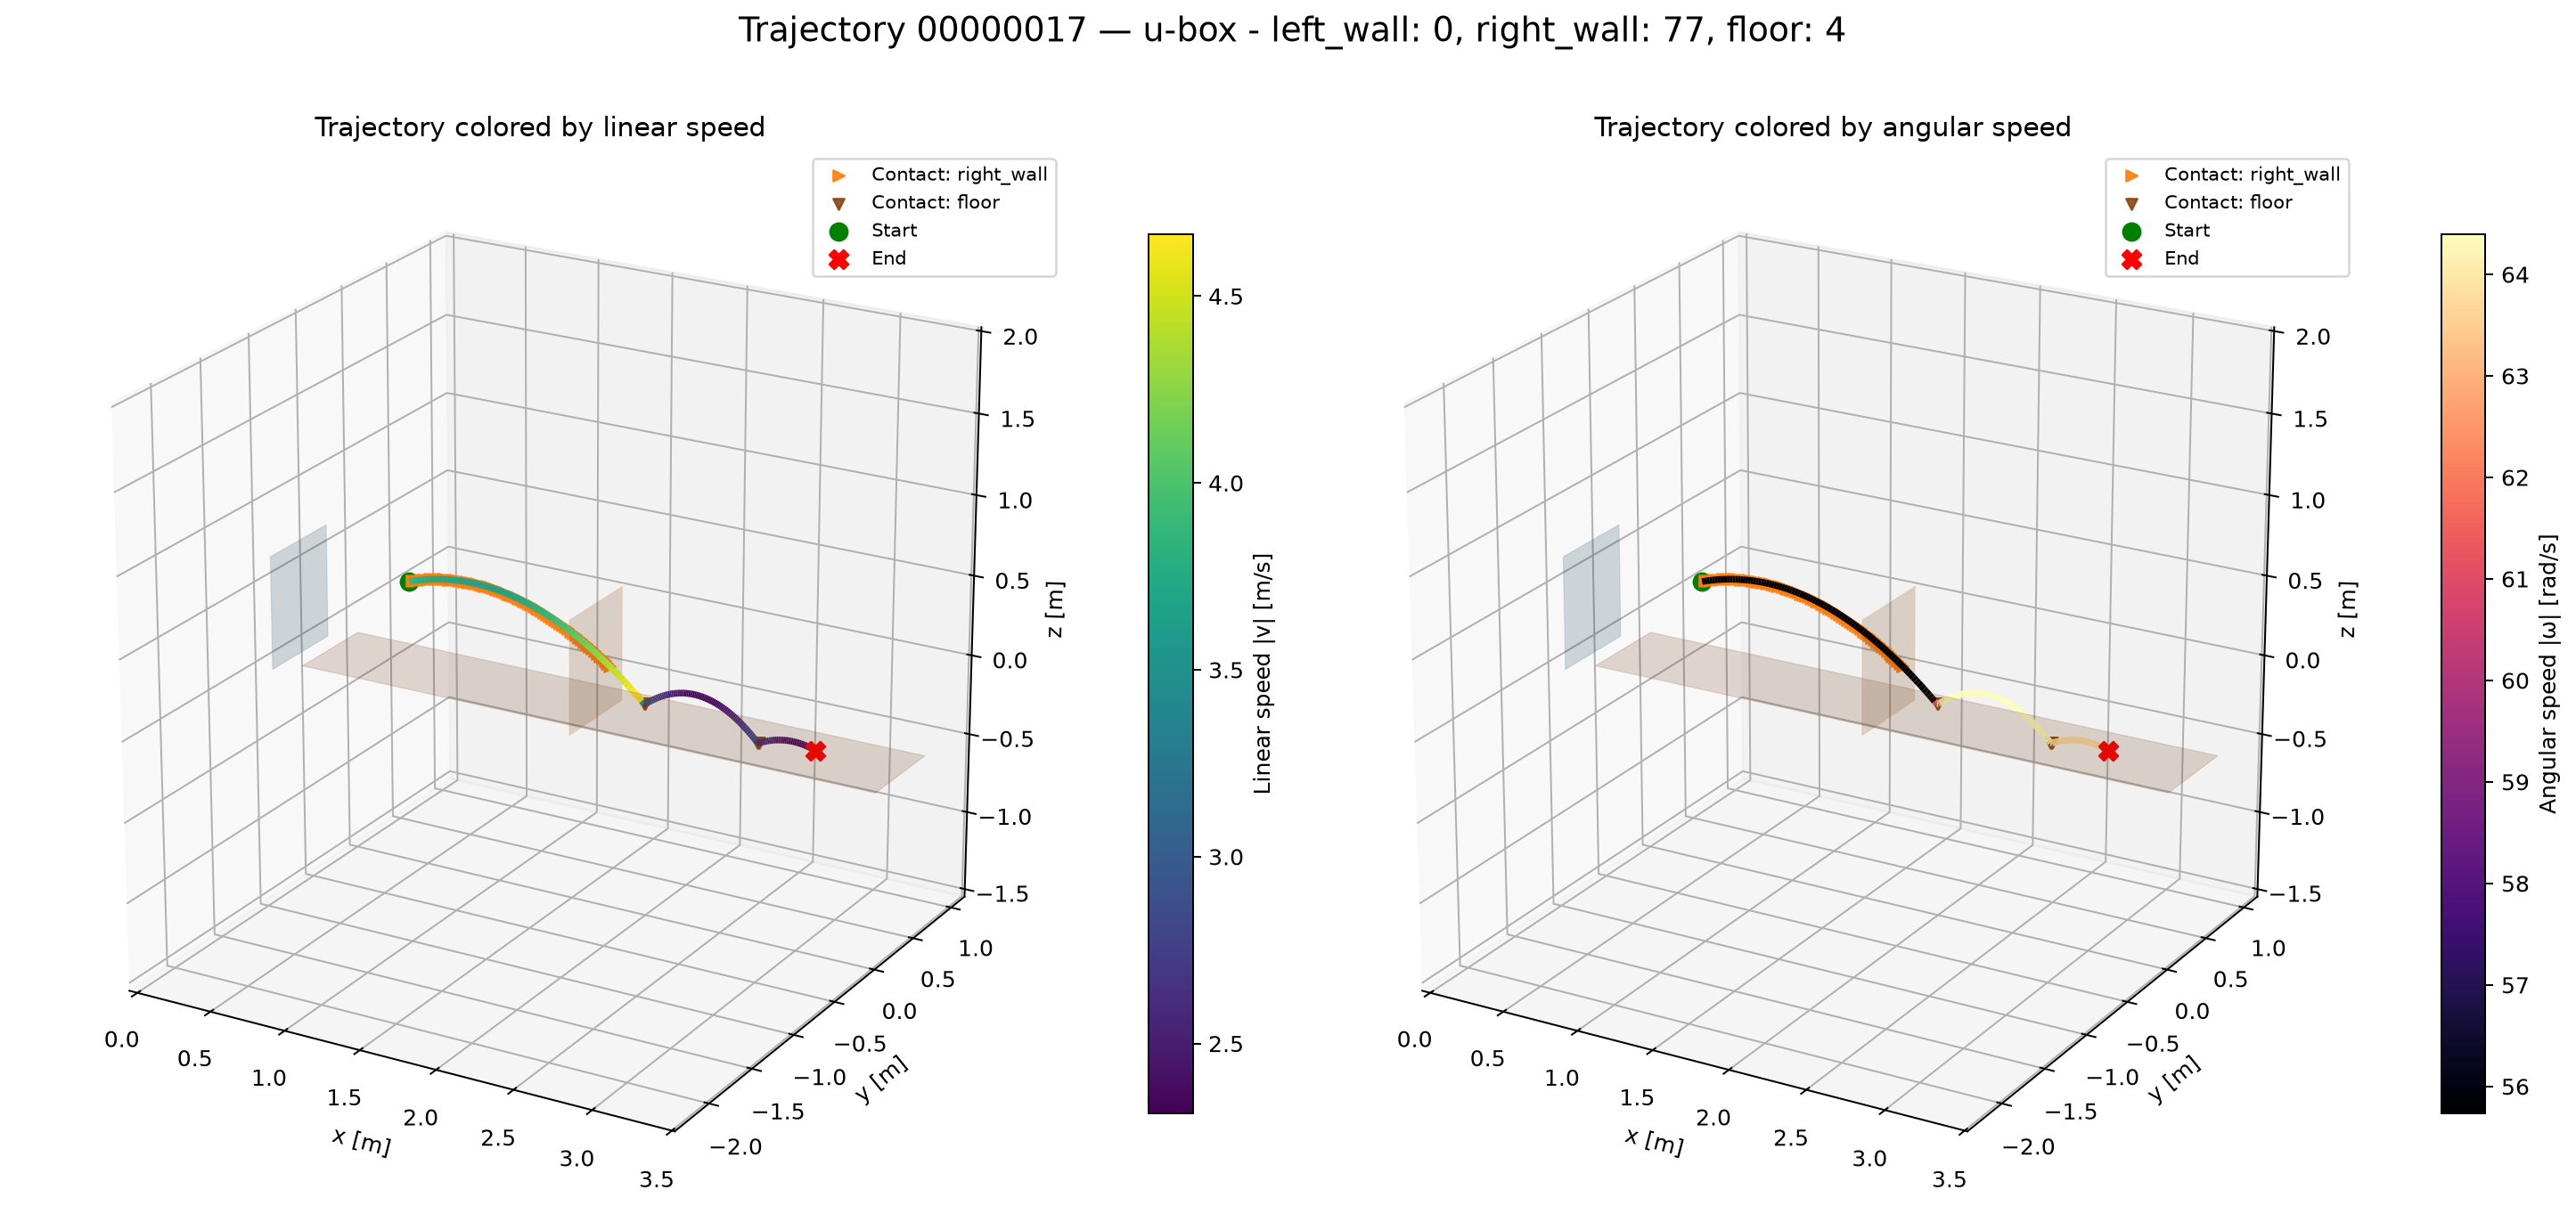
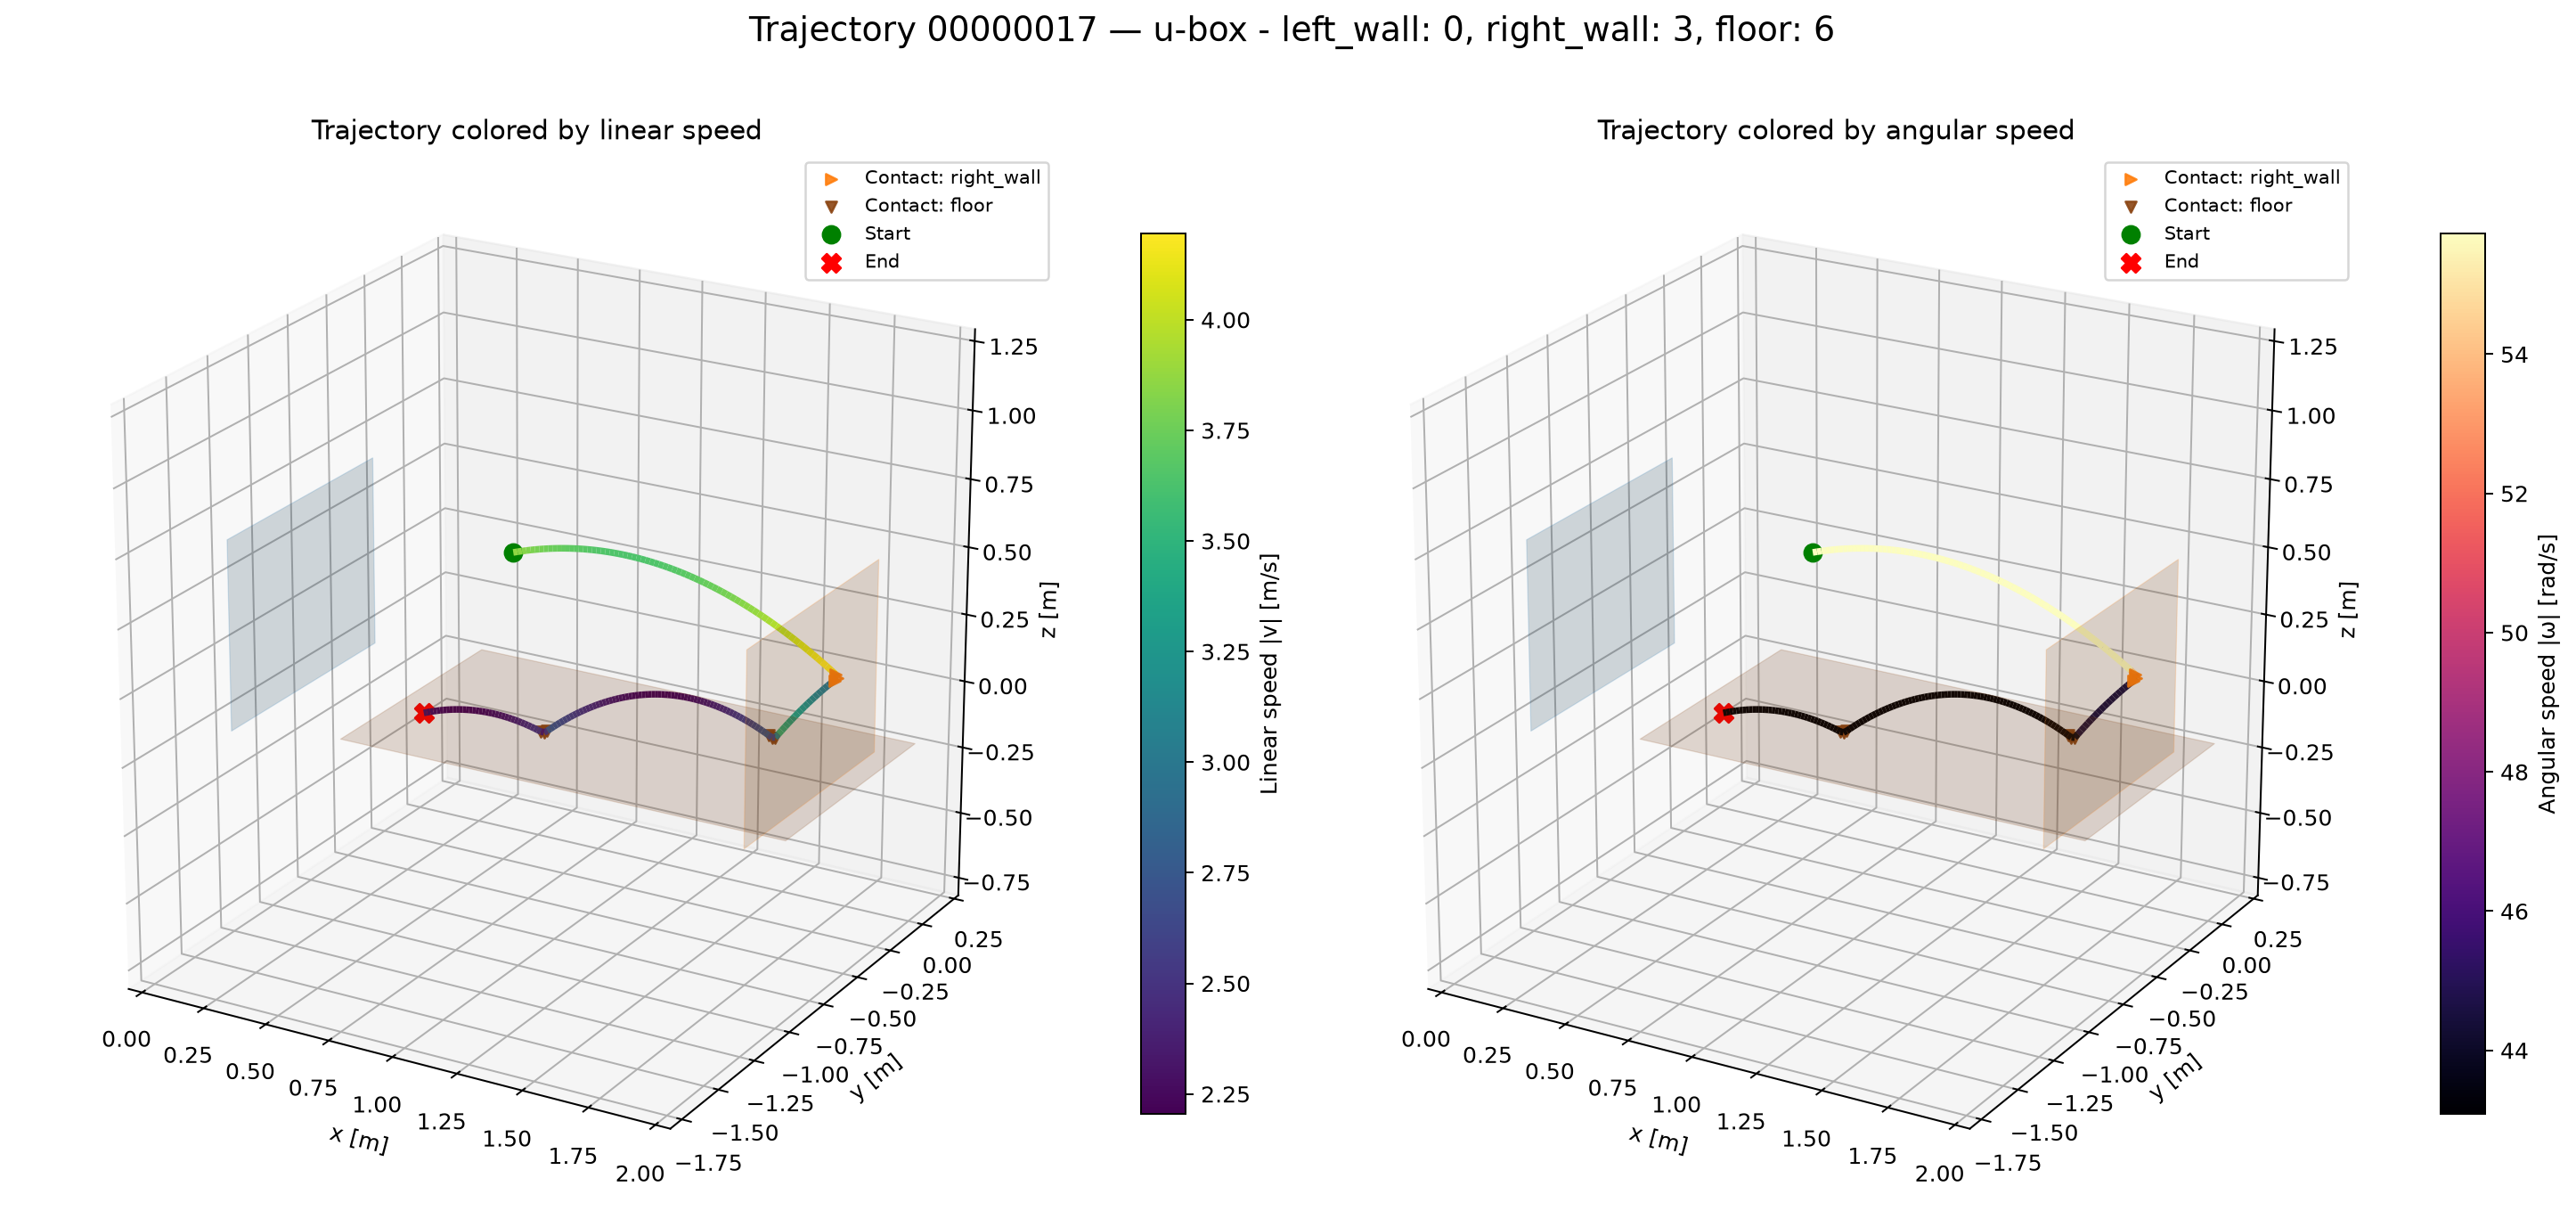
add stratified ubox analysis

diff --git a/ball_simulator/src/ball_simulator/regime_inspection.py b/ball_simulator/src/ball_simulator/regime_inspection.py
@@ -4,6 +4,7 @@ import csv
 from dataclasses import asdict, dataclass
 from pathlib import Path
 from typing import Callable, Sequence
+import json
 
 import h5py
 import matplotlib.pyplot as plt
@@ -14,15 +15,18 @@ from .visualization import (
     load_trajectory,
     natural_trajectory_sort_key,
     plot_trajectory_3d,
-    plot_trajectory_diagnostics
+    plot_trajectory_diagnostics,
+    determine_initial_target_surface
 )
 from .physics import ContactMode
+from .dataset_geometry import EnvironmentGeometry, _decode_attribute, load_environment_geometry, load_root_metadata
 
 FloatArray = NDArray[np.float64]
 
 @dataclass(frozen=True, slots=True)
 class TrajectorySummary:
     trajectory_id: str
+    initial_target_surface: str
     initial_normal_speed: float
     initial_tangential_speed: float
     initial_linear_speed: float
@@ -34,6 +38,11 @@ class TrajectorySummary:
     mass: float
     radius: float
     contact_episodes: int
+    total_surface_episodes: int
+    maximum_simultaneous_contacts: int
+    simultaneous_contact_samples: int
+    contacted_surfaces: tuple[int, ...]
+    surface_epsiode_counts: tuple[int, ...]
     has_sticking: bool
     has_sliding: bool
     maximum_penetration: float
@@ -61,7 +70,33 @@ def _attr(attrs: h5py.AttributeManager, name: str, default: float = np.nan) -> f
     return float(attrs[name]) if name in attrs else float(default)
 
 
-def summarize_dataset(dataset: str | Path) -> list[TrajectorySummary]:
+def initial_incidence_features(
+        position: FloatArray,
+        velocity: FloatArray,
+        radius: float,
+        geometry: EnvironmentGeometry,
+) -> tuple[str, float, float, float]:
+    surface_id, _, normal_speed, tangential_speed = determine_initial_target_surface(
+        position, 
+        velocity, 
+        radius, 
+        geometry,
+        )
+
+    total_speed = float(np.linalg.norm(velocity))
+    incidence_cosine = normal_speed / total_speed if total_speed > 0.0 else 0.0
+
+    return (
+        surface_id,
+        normal_speed,
+        tangential_speed,
+        incidence_cosine
+    )
+
+
+def summarize_dataset(
+    dataset: str | Path,
+    geometry: EnvironmentGeometry) -> list[TrajectorySummary]:
     """Read compact per-trajectory features without loading positions/quaternions."""
     summaries: list[TrajectorySummary] = []
     with h5py.File(dataset, "r") as handle:
@@ -71,24 +106,21 @@ def summarize_dataset(dataset: str | Path) -> list[TrajectorySummary]:
             obs = group["observations"]
             attrs = group["parameters"].attrs
 
+            p0 = np.asarray(obs["position"][0], dtype=float)
             v0 = np.asarray(obs["linear_velocity"][0], dtype=float)
             w0 = np.asarray(obs["angular_velocity"][0], dtype=float)
             vf = np.asarray(obs["linear_velocity"][-1], dtype=float)
             wf = np.asarray(obs["angular_velocity"][-1], dtype=float)
             speed = float(np.linalg.norm(v0))
-            normal_speed = max(0.0, -float(v0[0]))
-            tangential_speed = float(np.linalg.norm(v0[1:]))
-            incidence_cosine = normal_speed / max(speed, np.finfo(float).eps)
+            # normal_speed = max(0.0, -float(v0[0]))
+            # tangential_speed = float(np.linalg.norm(v0[1:]))
+            # incidence_cosine = normal_speed / max(speed, np.finfo(float).eps)
 
             active = np.asarray(obs["contact_active"][:], dtype=bool)
-            if active.ndim == 1:
-                active = active[:, None]
             any_active = np.any(active, axis=1)
-            contact_episodes = _contact_episode_count(any_active)
+            active_contact_count = np.sum(active, axis=1)
 
             modes = np.asarray(obs["contact_mode"][:], dtype=np.int8)
-            if modes.ndim == 1:
-                modes = modes[:, None]
             
             has_sticking = bool(
                 np.any(modes == ContactMode.STICKING)
@@ -100,9 +132,40 @@ def summarize_dataset(dataset: str | Path) -> list[TrajectorySummary]:
             penetration = np.asarray(obs["penetration"][:], dtype=float)
             normal_force = np.asarray(obs["normal_force"][:], dtype=float)
 
+            surface_ids = tuple(
+                json.loads(_decode_attribute(group.attrs["surface_ids_json"]))
+            )
+
+            if surface_ids != geometry.surface_ids:
+                raise ValueError(
+                    f"Surface order mismatch for "
+                    f"trajectory {trajectory_id}."
+                )
+            radius = _attr(attrs, "radius")
+            target_surface, normal_speed, tangential_speed, incidence_cosine = initial_incidence_features(
+                p0,
+                v0,
+                radius,
+                geometry,
+            )
+
+            surface_episode_counts = tuple(
+                _contact_episode_count(active[:, surface_index]) 
+                for surface_index in range(len(surface_ids))
+            )
+            contact_episodes = _contact_episode_count(any_active)
+
+            contacted_surfaces = tuple(
+                surface_id for surface_index, surface_id in enumerate(surface_ids)
+                if np.any(active[:, surface_index])
+            )
+
+            total_force = np.sum(normal_force, axis=1)
+
             summaries.append(
                 TrajectorySummary(
                     trajectory_id=trajectory_id,
+                    initial_target_surface=target_surface,
                     initial_normal_speed=normal_speed,
                     initial_tangential_speed=tangential_speed,
                     initial_linear_speed=speed,
@@ -112,13 +175,18 @@ def summarize_dataset(dataset: str | Path) -> list[TrajectorySummary]:
                     normal_stiffness=_attr(attrs, "normal_stiffness"),
                     normal_damping=_attr(attrs, "normal_damping"),
                     mass=_attr(attrs, "mass"),
-                    radius=_attr(attrs, "radius"),
+                    radius=radius,
                     contact_episodes=contact_episodes,
+                    total_surface_episodes=int(sum(surface_episode_counts)),
+                    maximum_simultaneous_contacts=int(np.max(active_contact_count, initial=0)),
+                    simultaneous_contact_samples=int(np.count_nonzero(active_contact_count >= 2)),
+                    contacted_surfaces=contacted_surfaces,
+                    surface_epsiode_counts=surface_episode_counts,
                     has_sticking=has_sticking,
                     has_sliding=has_sliding,
                     maximum_penetration=float(np.max(penetration, initial=0.0)),
                     peak_normal_force=float(
-                        np.max(np.linalg.norm(normal_force, axis=1), initial=0.0)
+                        np.max(np.linalg.norm(total_force, axis=1), initial=0.0)
                     ),
                     final_linear_speed=float(np.linalg.norm(vf)),
                     final_angular_speed=float(np.linalg.norm(wf)),
@@ -167,8 +235,81 @@ def _pick(
     return SelectedTrajectory(regime, winner.trajectory_id, float(score(winner)), reason)
 
 
+def add_environment_specific_regimes(
+    summaries: Sequence[TrajectorySummary],
+    geometry: EnvironmentGeometry,
+    selected: list[SelectedTrajectory],
+    used: set[str],
+    allow_reuse: bool,
+) -> None:
+    def add(result: SelectedTrajectory | None) -> None:
+        if result is not None:
+            selected.append(result)
+
+    if geometry.kind == "u-box":
+        for surface_id in geometry.surface_ids:
+            add(
+                _pick(
+                    summaries,
+                    regime=f"most-{surface_id}-contacts",
+                    predicate=lambda item, sid = surface_id: (
+                        sid in item.contacted_surfaces
+                    ),
+                    score=lambda item, sid = surface_id: (
+                        -item.surface_episode_counts[
+                            geometry.surface_index(sid)
+                        ]
+                    ),
+                    reason=(
+                        f"Largest number of separated "
+                        f"{surface_id} contact episodes."
+                    ),
+                    used=used,
+                    allow_reuse=allow_reuse,
+                )
+            )
+
+        add(
+            _pick(
+                summaries,
+                regime="simultaneous-contact",
+                predicate=lambda item: (
+                    item.maximum_simultaneous_contacts >= 2
+                ),
+                score=lambda item: -item.simultaneous_contact_samples,
+                reason=(
+                    "Contains simultaneous contact with "
+                    "at least two surfaces."
+                ),
+                used=used,
+                allow_reuse=allow_reuse,
+            )
+        )
+        add(
+            _pick(
+                summaries,
+                regime="contacts-all-surfaces",
+                predicate=lambda item: (
+                    set(item.contacted_surfaces) == set(geometry.surface_ids)
+                ),
+                score=lambda item: (
+                -item.total_surface_episodes
+                ),
+                reason=(
+                "Contacts every U-box surface during "
+                "one trajectory."
+                ),
+                used=used,
+                allow_reuse=allow_reuse,
+            )
+        )
+    else:
+        return
+
+
 def select_stratified_regimes(
     summaries: Sequence[TrajectorySummary],
+    geometry: EnvironmentGeometry,
     *,
     allow_reuse: bool = False,
 ) -> list[SelectedTrajectory]:
@@ -304,6 +445,13 @@ def select_stratified_regimes(
         "No contact episode was recorded; useful for detecting invalid sampling horizons.",
         used, allow_reuse,
     ))
+    add_environment_specific_regimes(
+        summaries=summaries,
+        geometry=geometry,
+        selected=selected,
+        used=used,
+        allow_reuse=allow_reuse
+    )
     return selected
 
 
@@ -333,28 +481,33 @@ def render_stratified_inspection(
     include_diagnostics: bool = True,
     use_high_rate: bool = False,
     allow_reuse: bool = False,
-    wall_x: float = 0.0,
 ) -> list[SelectedTrajectory]:
-    summaries = summarize_dataset(dataset)
-    selected = select_stratified_regimes(summaries, allow_reuse=allow_reuse)
+    geometry = load_environment_geometry(dataset)
+    metadata = load_root_metadata(dataset)
+    gravity_vector = np.asarray(
+        metadata["simulation"]["gravity"], dtype=float
+    )
+    summaries = summarize_dataset(dataset, geometry)
+    selected = select_stratified_regimes(summaries, geometry, allow_reuse=allow_reuse)
     output = Path(output_directory)
     output.mkdir(parents=True, exist_ok=True)
-    write_manifest(output / "manifest.csv", selected, summaries)
+    write_manifest(output / f"manifest_{geometry.kind}.csv", selected, summaries)
 
     for item in selected:
         trajectory = load_trajectory(dataset, item.trajectory_id, use_high_rate=use_high_rate)
         plot_trajectory_3d(
-            trajectory,
-            wall_x=wall_x,
+            trajectory=trajectory,
+            geometry=geometry,
             output=output / f"{item.regime}__{item.trajectory_id}__3d.png",
             show=False,
         )
-        plt.close()
+        plt.close("all")
         if include_diagnostics:
             plot_trajectory_diagnostics(
                 trajectory,
+                gravity_vector=gravity_vector,
                 output=output / f"{item.regime}__{item.trajectory_id}__diagnostics.png",
                 show=False,
             )
-            plt.close()
+            plt.close("all")
     return selected

diff --git a/ball_simulator/src/ball_simulator/cli.py b/ball_simulator/src/ball_simulator/cli.py
@@ -387,10 +387,6 @@ def inspect_regimes_command(
             help="Permit one trajectory to represent multiple regimes.",
         ),
     ] = False,
-    wall_x: Annotated[
-        float,
-        typer.Option("--wall-x", help="Wall-plane x coordinate."),
-    ] = 0.0,
 ) -> None:
     """Select and render representative physical regimes."""
     selected = render_stratified_inspection(
@@ -399,7 +395,6 @@ def inspect_regimes_command(
         include_diagnostics=diagnostics,
         use_high_rate=high_rate,
         allow_reuse=allow_reuse,
-        wall_x=wall_x
     )
     print(f"[green]Rendered {len(selected)} physical regimes:[/green]")
     for item in selected: